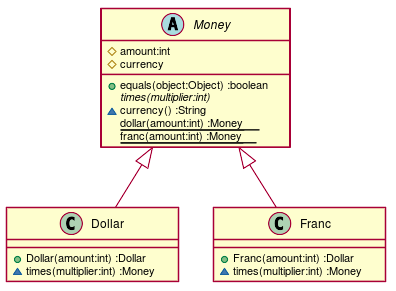
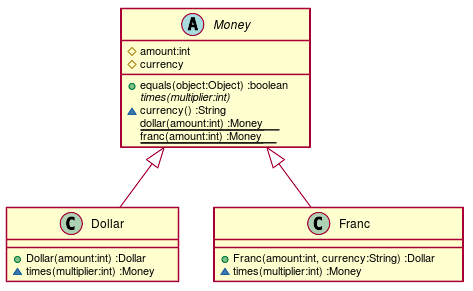
第９章 歩幅の調整 Step11

diff --git a/src/main/java/tdd/money/Franc.java b/src/main/java/tdd/money/Franc.java
@@ -1,9 +1,9 @@
 package tdd.money;
 
 class Franc extends Money {
-    Franc(int amount) {
+    Franc(int amount, String currency) {
         this.amount = amount;
-        currency = "CHF";
+        this.currency = "CHF";
     }
     Money times(int multiplier) {
         return new Franc(amount * multiplier);

diff --git a/docs/TDD.md b/docs/TDD.md
@@ -59,7 +59,7 @@
 ### クラス図
   
 
-![](./assets/0285dfa24ee25b18e00bb369b57da6820.png?0.031153277091004794)  
+![](./assets/0285dfa24ee25b18e00bb369b57da6820.png?0.4557429902888377)  
 ### シーケンス図
   
   
@@ -123,9 +123,9 @@ class Dollar extends Money {
 package tdd.money;
   
 class Franc extends Money {
-    Franc(int amount) {
+    Franc(int amount, String currency) {
         this.amount = amount;
-        currency = "CHF";
+        this.currency = "CHF";
     }
     Money times(int multiplier) {
         return new Franc(amount * multiplier);

diff --git a/docs/src/TDD.md b/docs/src/TDD.md
@@ -65,7 +65,7 @@ class Dollar {
   ~times(multiplier:int) :Money
 }
 class Franc {
-  +Franc(amount:int) :Dollar
+  +Franc(amount:int, currency:String) :Dollar
   ~times(multiplier:int) :Money
 }
 abstract Money {
